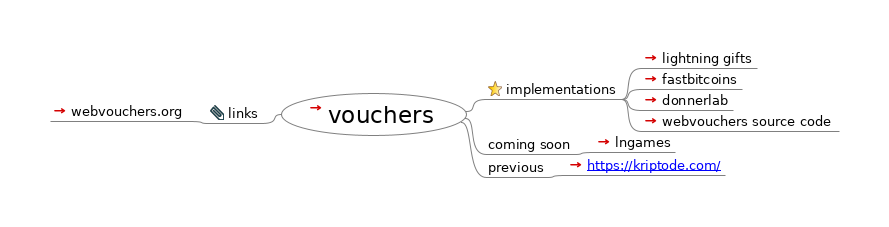
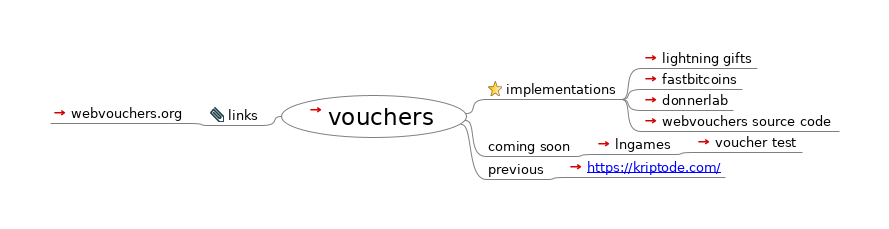
add voucher test

diff --git a/dev/vouchers.html b/dev/vouchers.html
@@ -23,21 +23,22 @@
                    };
                };
           
-          --></script></head><body><h1>vouchers</h1><div style="width:96%;  padding:2%;  margin-bottom:10px;  border: 0px;  text-align:center;  vertical-align:center;"><img src="vouchers.html_files/image.png" style="margin-bottom:10px; &#9;border: 0px; &#9;text-align:center; &#9;vertical-align:center;" alt="Imagemap" usemap="#fm_imagemap" /></div><map name="fm_imagemap" id="fm_imagemap"><area shape="rect" href="index.html" alt="vouchers" title="vouchers" coords="281,93,467,136" />
+          --></script></head><body><h1>vouchers</h1><div style="width:96%;  padding:2%;  margin-bottom:10px;  border: 0px;  text-align:center;  vertical-align:center;"><img src="vouchers.html_files/image.png" style="margin-bottom:10px; &#9;border: 0px; &#9;text-align:center; &#9;vertical-align:center;" alt="Imagemap" usemap="#fm_imagemap" /></div><map name="fm_imagemap" id="fm_imagemap"><area shape="rect" href="index.html" alt="vouchers" title="vouchers" coords="281,95,467,138" />
 <area shape="rect" href="#FMID_1143974934FM" alt="implementations" title="implementations" coords="486,81,622,99" />
 <area shape="rect" href="https://lightning.gifts/" alt="lightning gifts" title="lightning gifts" coords="641,50,757,68" />
 <area shape="rect" href="https://fastbitcoins.com/" alt="fastbitcoins" title="fastbitcoins" coords="641,71,742,89" />
 <area shape="rect" href="https://donnerlab.com/voucher" alt="donnerlab" title="donnerlab" coords="641,92,733,110" />
 <area shape="rect" href="https://github.com/solidpayorg/webvouchers/blob/gh-pages/bin/lightning.js" alt="webvouchers source code" title="webvouchers source code" coords="641,113,839,131" />
-<area shape="rect" href="#FMID_1029049124FM" alt="coming soon" title="coming soon" coords="486,136,575,154" />
-<area shape="rect" href="https://twitter.com/lngames_net/status/1190393843881041920?s=17" alt="lngames" title="lngames" coords="594,134,675,152" />
-<area shape="rect" href="#FMID_980844235FM" alt="previous" title="previous" coords="486,159,547,177" />
-<area shape="rect" href="https://kriptode.com/" alt="https://kriptode.com/ " title="https://kriptode.com/ " coords="566,157,725,175" />
-<area shape="rect" href="#FMID_1091889470FM" alt="links" title="links" coords="208,105,262,123" />
-<area shape="rect" href="https://webvouchers.org/" alt="webvouchers.org" title="webvouchers.org" coords="50,103,189,121" />
+<area shape="rect" href="#FMID_1029049124FM" alt="coming soon" title="coming soon" coords="486,138,575,156" />
+<area shape="rect" href="https://twitter.com/lngames_net/status/1190393843881041920?s=17" alt="lngames" title="lngames" coords="594,136,675,154" />
+<area shape="rect" href="https://twitter.com/lngames_net/status/1192164048844083200?s=17" alt="voucher test" title="voucher test" coords="694,134,802,152" />
+<area shape="rect" href="#FMID_980844235FM" alt="previous" title="previous" coords="486,161,547,179" />
+<area shape="rect" href="https://kriptode.com/" alt="https://kriptode.com/" title="https://kriptode.com/" coords="566,159,725,177" />
+<area shape="rect" href="#FMID_1091889470FM" alt="links" title="links" coords="208,107,262,125" />
+<area shape="rect" href="https://webvouchers.org/" alt="webvouchers.org" title="webvouchers.org" coords="50,105,189,123" />
 </map>
 
-<div class="node"><img src="vouchers.html_files/hide.png" class="hideshow" alt="hide" onClick="toggle(&quot;N65543&quot;)" id="imgN65543" /><a id="FMID_44737290FM" /><div class="nodecontent" style="color:#000000;font-size:150%;"><a href="index.html">vouchers</a> <a href="index.html"><img src="vouchers.html_files/ilink.png" alt="User Link" style="border-width:0" /></a></div><div class="content" id="N65543"><div class="node"><img src="vouchers.html_files/hide.png" class="hideshow" alt="hide" onClick="toggle(&quot;N66435&quot;)" id="imgN66435" /><img src="vouchers.html_files/icons/bookmark.svg" alt="bookmark" /> <a id="FMID_1143974934FM" /><div class="nodecontent" style="color:#000000;font-size:83%;">implementations</div><div class="content" id="N66435"><div class="node"><img src="vouchers.html_files/leaf.png" class="hideshow" alt="leaf" /><a id="FMID_1798463538FM" /><div class="nodecontent" style="color:#000000;font-size:83%;"><a href="https://lightning.gifts/">lightning gifts</a> <a href="https://lightning.gifts/"><img src="vouchers.html_files/ilink.png" alt="User Link" style="border-width:0" /></a></div></div><div class="node"><img src="vouchers.html_files/leaf.png" class="hideshow" alt="leaf" /><a id="FMID_1647714766FM" /><div class="nodecontent" style="color:#000000;font-size:83%;"><a href="https://fastbitcoins.com/">fastbitcoins</a> <a href="https://fastbitcoins.com/"><img src="vouchers.html_files/ilink.png" alt="User Link" style="border-width:0" /></a></div></div><div class="node"><img src="vouchers.html_files/leaf.png" class="hideshow" alt="leaf" /><a id="FMID_606800072FM" /><div class="nodecontent" style="color:#000000;font-size:83%;"><a href="https://donnerlab.com/voucher">donnerlab</a> <a href="https://donnerlab.com/voucher"><img src="vouchers.html_files/ilink.png" alt="User Link" style="border-width:0" /></a></div></div><div class="node"><img src="vouchers.html_files/leaf.png" class="hideshow" alt="leaf" /><a id="FMID_530694162FM" /><div class="nodecontent" style="color:#000000;font-size:83%;"><a href="https://github.com/solidpayorg/webvouchers/blob/gh-pages/bin/lightning.js">webvouchers source code</a> <a href="https://github.com/solidpayorg/webvouchers/blob/gh-pages/bin/lightning.js"><img src="vouchers.html_files/ilink.png" alt="User Link" style="border-width:0" /></a></div></div></div></div><div class="node"><img src="vouchers.html_files/hide.png" class="hideshow" alt="hide" onClick="toggle(&quot;N66625&quot;)" id="imgN66625" /><a id="FMID_1029049124FM" /><div class="nodecontent" style="color:#000000;font-size:83%;">coming soon</div><div class="content" id="N66625"><div class="node"><img src="vouchers.html_files/leaf.png" class="hideshow" alt="leaf" /><a id="FMID_1651596806FM" /><div class="nodecontent" style="color:#000000;font-size:83%;"><a href="https://twitter.com/lngames_net/status/1190393843881041920?s=17">lngames</a> <a href="https://twitter.com/lngames_net/status/1190393843881041920?s=17"><img src="vouchers.html_files/ilink.png" alt="User Link" style="border-width:0" /></a></div></div></div></div><div class="node"><img src="vouchers.html_files/hide.png" class="hideshow" alt="hide" onClick="toggle(&quot;N66699&quot;)" id="imgN66699" /><a id="FMID_980844235FM" /><div class="nodecontent" style="color:#000000;font-size:83%;">previous</div><div class="content" id="N66699"><div class="node"><img src="vouchers.html_files/leaf.png" class="hideshow" alt="leaf" /><a id="FMID_247465001FM" /><div class="nodecontent" style="color:#000000;font-size:83%;"><a href="https://kriptode.com/">
-    <a http-equiv="content-type" content="text/html; charset=utf-8" href="https://kriptode.com/">https://kriptode.com/</a> 
-  </a> <a href="https://kriptode.com/"><img src="vouchers.html_files/ilink.png" alt="User Link" style="border-width:0" /></a></div></div></div></div><div class="node"><img src="vouchers.html_files/hide.png" class="hideshow" alt="hide" onClick="toggle(&quot;N66791&quot;)" id="imgN66791" /><img src="vouchers.html_files/icons/attach.svg" alt="attach" /> <a id="FMID_1091889470FM" /><div class="nodecontent" style="color:#000000;font-size:83%;">links</div><div class="content" id="N66791"><div class="node"><img src="vouchers.html_files/leaf.png" class="hideshow" alt="leaf" /><a id="FMID_255085710FM" /><div class="nodecontent" style="color:#000000;font-size:83%;"><a href="https://webvouchers.org/">webvouchers.org</a> <a href="https://webvouchers.org/"><img src="vouchers.html_files/ilink.png" alt="User Link" style="border-width:0" /></a></div></div></div></div></div></div>
+<div class="node"><img src="vouchers.html_files/hide.png" class="hideshow" alt="hide" onClick="toggle(&quot;N65543&quot;)" id="imgN65543" /><a id="FMID_44737290FM" /><div class="nodecontent" style="color:#000000;font-size:150%;"><a href="index.html">vouchers</a> <a href="index.html"><img src="vouchers.html_files/ilink.png" alt="User Link" style="border-width:0" /></a></div><div class="content" id="N65543"><div class="node"><img src="vouchers.html_files/hide.png" class="hideshow" alt="hide" onClick="toggle(&quot;N66435&quot;)" id="imgN66435" /><img src="vouchers.html_files/icons/bookmark.svg" alt="bookmark" /> <a id="FMID_1143974934FM" /><div class="nodecontent" style="color:#000000;font-size:83%;">implementations</div><div class="content" id="N66435"><div class="node"><img src="vouchers.html_files/leaf.png" class="hideshow" alt="leaf" /><a id="FMID_1798463538FM" /><div class="nodecontent" style="color:#000000;font-size:83%;"><a href="https://lightning.gifts/">lightning gifts</a> <a href="https://lightning.gifts/"><img src="vouchers.html_files/ilink.png" alt="User Link" style="border-width:0" /></a></div></div><div class="node"><img src="vouchers.html_files/leaf.png" class="hideshow" alt="leaf" /><a id="FMID_1647714766FM" /><div class="nodecontent" style="color:#000000;font-size:83%;"><a href="https://fastbitcoins.com/">fastbitcoins</a> <a href="https://fastbitcoins.com/"><img src="vouchers.html_files/ilink.png" alt="User Link" style="border-width:0" /></a></div></div><div class="node"><img src="vouchers.html_files/leaf.png" class="hideshow" alt="leaf" /><a id="FMID_606800072FM" /><div class="nodecontent" style="color:#000000;font-size:83%;"><a href="https://donnerlab.com/voucher">donnerlab</a> <a href="https://donnerlab.com/voucher"><img src="vouchers.html_files/ilink.png" alt="User Link" style="border-width:0" /></a></div></div><div class="node"><img src="vouchers.html_files/leaf.png" class="hideshow" alt="leaf" /><a id="FMID_530694162FM" /><div class="nodecontent" style="color:#000000;font-size:83%;"><a href="https://github.com/solidpayorg/webvouchers/blob/gh-pages/bin/lightning.js">webvouchers source code</a> <a href="https://github.com/solidpayorg/webvouchers/blob/gh-pages/bin/lightning.js"><img src="vouchers.html_files/ilink.png" alt="User Link" style="border-width:0" /></a></div></div></div></div><div class="node"><img src="vouchers.html_files/hide.png" class="hideshow" alt="hide" onClick="toggle(&quot;N66625&quot;)" id="imgN66625" /><a id="FMID_1029049124FM" /><div class="nodecontent" style="color:#000000;font-size:83%;">coming soon</div><div class="content" id="N66625"><div class="node"><img src="vouchers.html_files/hide.png" class="hideshow" alt="hide" onClick="toggle(&quot;N66661&quot;)" id="imgN66661" /><a id="FMID_1651596806FM" /><div class="nodecontent" style="color:#000000;font-size:83%;"><a href="https://twitter.com/lngames_net/status/1190393843881041920?s=17">lngames</a> <a href="https://twitter.com/lngames_net/status/1190393843881041920?s=17"><img src="vouchers.html_files/ilink.png" alt="User Link" style="border-width:0" /></a></div><div class="content" id="N66661"><div class="node"><img src="vouchers.html_files/leaf.png" class="hideshow" alt="leaf" /><a id="FMID_810655095FM" /><div class="nodecontent" style="color:#000000;font-size:83%;"><a href="https://twitter.com/lngames_net/status/1192164048844083200?s=17">voucher test</a> <a href="https://twitter.com/lngames_net/status/1192164048844083200?s=17"><img src="vouchers.html_files/ilink.png" alt="User Link" style="border-width:0" /></a></div></div></div></div></div></div><div class="node"><img src="vouchers.html_files/hide.png" class="hideshow" alt="hide" onClick="toggle(&quot;N66736&quot;)" id="imgN66736" /><a id="FMID_980844235FM" /><div class="nodecontent" style="color:#000000;font-size:83%;">previous</div><div class="content" id="N66736"><div class="node"><img src="vouchers.html_files/leaf.png" class="hideshow" alt="leaf" /><a id="FMID_247465001FM" /><div class="nodecontent" style="color:#000000;font-size:83%;"><a href="https://kriptode.com/">
+    <a http-equiv="content-type" content="text/html; charset=utf-8" href="https://kriptode.com/">https://kriptode.com/</a>
+  </a> <a href="https://kriptode.com/"><img src="vouchers.html_files/ilink.png" alt="User Link" style="border-width:0" /></a></div></div></div></div><div class="node"><img src="vouchers.html_files/hide.png" class="hideshow" alt="hide" onClick="toggle(&quot;N66828&quot;)" id="imgN66828" /><img src="vouchers.html_files/icons/attach.svg" alt="attach" /> <a id="FMID_1091889470FM" /><div class="nodecontent" style="color:#000000;font-size:83%;">links</div><div class="content" id="N66828"><div class="node"><img src="vouchers.html_files/leaf.png" class="hideshow" alt="leaf" /><a id="FMID_255085710FM" /><div class="nodecontent" style="color:#000000;font-size:83%;"><a href="https://webvouchers.org/">webvouchers.org</a> <a href="https://webvouchers.org/"><img src="vouchers.html_files/ilink.png" alt="User Link" style="border-width:0" /></a></div></div></div></div></div></div>
 </body></html>

diff --git a/dev/vouchers.mm b/dev/vouchers.mm
@@ -71,7 +71,9 @@
 <node TEXT="webvouchers source code" ID="ID_530694162" CREATED="1572864818535" MODIFIED="1572866053160" LINK="https://github.com/solidpayorg/webvouchers/blob/gh-pages/bin/lightning.js"/>
 </node>
 <node TEXT="coming soon" POSITION="right" ID="ID_1029049124" CREATED="1572864541700" MODIFIED="1572864543785">
-<node TEXT="lngames" ID="ID_1651596806" CREATED="1572864580441" MODIFIED="1572864586019" LINK="https://twitter.com/lngames_net/status/1190393843881041920?s=17"/>
+<node TEXT="lngames" ID="ID_1651596806" CREATED="1572864580441" MODIFIED="1572864586019" LINK="https://twitter.com/lngames_net/status/1190393843881041920?s=17">
+<node TEXT="voucher test" ID="ID_810655095" CREATED="1573199619889" MODIFIED="1573199628335" LINK="https://twitter.com/lngames_net/status/1192164048844083200?s=17"/>
+</node>
 </node>
 <node TEXT="previous" POSITION="right" ID="ID_980844235" CREATED="1572866089482" MODIFIED="1572866091410">
 <node ID="ID_247465001" CREATED="1572866109938" MODIFIED="1572866109938" LINK="https://kriptode.com/"><richcontent TYPE="NODE">
@@ -84,7 +86,6 @@
     <a http-equiv="content-type" content="text/html; charset=utf-8" href="https://kriptode.com/">https://kriptode.com/</a> 
   </body>
 </html>
-
 </richcontent>
 </node>
 </node>
